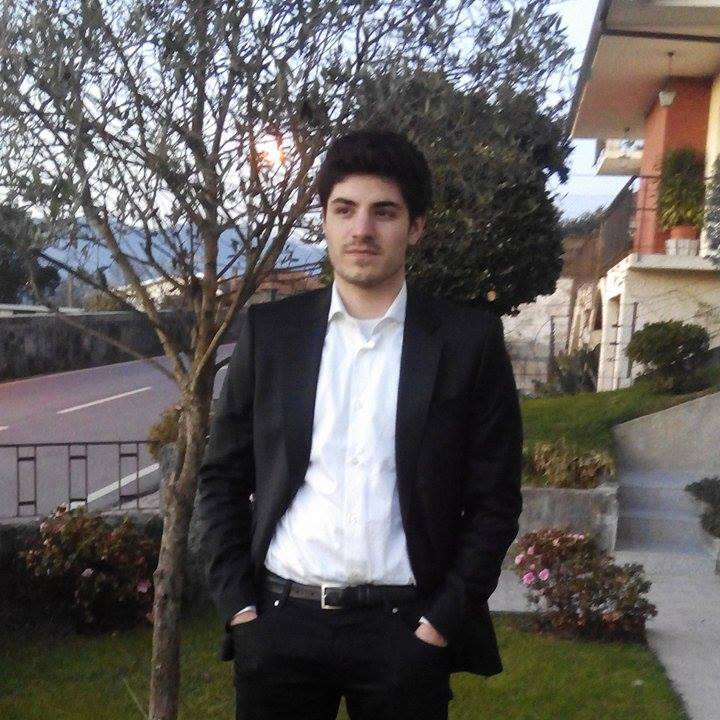
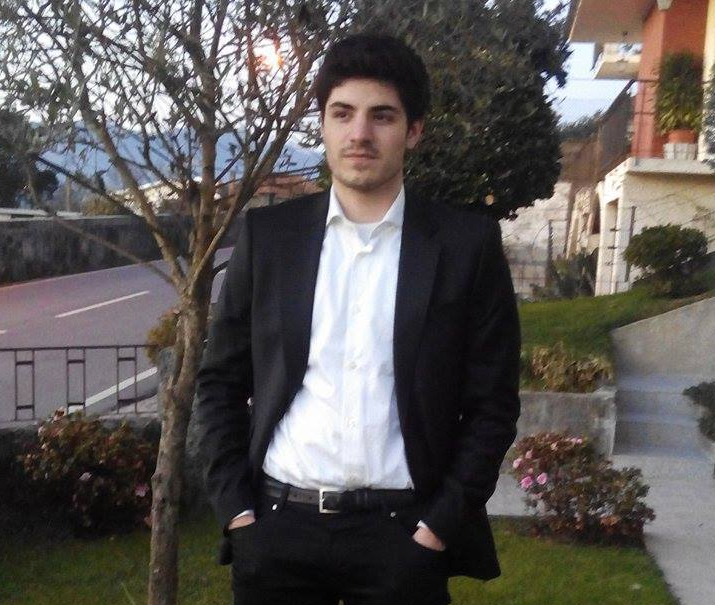
before table at index

diff --git a/aboutme.html b/aboutme.html
@@ -26,20 +26,19 @@
         </ul>
     </header>
     <div class="contentlayer">
-        <h2>Sobre Mim</h2>
+        <h1>Sobre Mim</h1>
         <div class="contentArea">
-            I'm 22 years old and I am currently in the last year of my master's degree in electrical and computer engineering.
-            I currently live in Vila Nova de Famalicão, Portugal. <br>
-            I have an extreme passion for technology and I value knowledge above all.<br>
-            In my free time I like to watch movies and listen to music. I also try to complement what I learned in college, building a special taste for web development. Additionally, I aim to play sports often, especially running and swimming.<br>
-            <span style="text-align: center">For more information, if you like, <a href="./contacts.html">get in touch &#9786;</a></span>.
+            Olá, o meu nome é Luís, tenh 22 anos e sou natural de Joane, uma freguesia de Vila Nova de Famalicão. <br />
+            Neste momento frequento o meu último ano escolar, no Mestrado Integrado em Engenharia Electrotécnica e de Computadores, na <a href="https://www.fe.up.pt" target="_blank">FEUP</a>.<br />
+            <br>
+            <p>Para mais informações, <a href="./contacts.html">contactem-me &#9786;</a></p>.
         </div>
         <div class="photoArea">
             <img src="images/photo.png" alt="Luis Melo">
         </div>
     </div>
     <footer>
-        <small>Copyright 2016 © Luís Melo, ee12103@fe.up.pt - SIEM</small>
+        <small>Copyright 2016 &#169; Luís Melo, ee12103@fe.up.pt - SIEM</small>
     </footer>
 </body>
 

diff --git a/download.html b/download.html
@@ -25,24 +25,16 @@
         </ul>
     </header>
     <div class="contentlayer">
-        <h2>Title Goes Here</h2>
+        <h1>Downloads</h1>
         <div class="contentArea">
-            Lorem ipsum dolor sit amet, consectetur adipiscing elit.
-            Sed fermentum, quam id varius facilisis, neque massa faucibus ligula, sed laoreet purus lectus et urna.
-            Aenean turpis erat, luctus in imperdiet nec, maximus sed nisl.
-            Aenean eu eleifend dui. Aenean sodales neque dolor, vel maximus urna consequat nec.
-            In imperdiet hendrerit arcu, et varius orci facilisis sit amet. Nulla facilisi.
-            Mauris at nulla quis est dictum vehicula. Interdum et malesuada fames ac ante ipsum primis in faucibus.
-            Ut quis elementum lorem, a elementum lectus.
-            Vestibulum non nisl tincidunt, imperdiet ligula euismod, auctor nunc.
-            In blandit iaculis massa eu varius.
+            
         </div>
         <div class="photoArea">
             <img src="images/photo.png" alt="Luis Melo">
         </div>
     </div>
     <footer>
-        <small>Copyright 2016 © Luís Melo, ee12103@fe.up.pt - SIEM</small>
+        <small>Copyright 2016 &#169; Luís Melo, ee12103@fe.up.pt - SIEM</small>
     </footer>
 </body>
 

diff --git a/interests.html b/interests.html
@@ -25,7 +25,7 @@
         </ul>
     </header>
     <div class="contentlayer">
-        <h2>Title Goes Here</h2>
+        <h1>Interesses</h1>
         <div class="contentArea">
             Lorem ipsum dolor sit amet, consectetur adipiscing elit.
             Sed fermentum, quam id varius facilisis, neque massa faucibus ligula, sed laoreet purus lectus et urna.
@@ -37,12 +37,9 @@
             Vestibulum non nisl tincidunt, imperdiet ligula euismod, auctor nunc.
             In blandit iaculis massa eu varius.
         </div>
-        <div class="photoArea">
-            <img src="images/photo.png" alt="Luis Melo">
-        </div>
     </div>
     <footer>
-        <small>Copyright 2016 © Luís Melo, ee12103@fe.up.pt - SIEM</small>
+        <small>Copyright 2016 &#169; Luís Melo, ee12103@fe.up.pt - SIEM</small>
     </footer>
 </body>
 

diff --git a/style.css b/style.css
@@ -25,6 +25,7 @@ html, body {
     display: block;
     width: 60%;
     margin-bottom: 10%;
+    padding: 0!important;
 }
 
 .intro p {
@@ -99,19 +100,20 @@ li a {
 /* CONTENT */
 
 .contentlayer {
-    margin: 0 5% 0 5%;
+    margin: 0 10% 0 10%;
     padding: 2%;
 }
 
-h2 {
+h1 {
     padding: 20px;
     font-family: 'Ubuntu', Helvetica, Arial, sans-serif;
-
 }
 
 .contentArea {
     width: 60%;
     display: inline-block;
+    line-height: 200%;
+    letter-spacing: 1.5px;
 }
 
 .photoArea {
@@ -121,11 +123,29 @@ h2 {
 }
 
 img {
-    width: 70%;
+    width: 80%;
     padding: 15%;
     padding-top: 0;
 }
 
+.contentArea p{
+    text-align: center;
+}
+
+.contentArea a{
+    color: #eee;
+    text-decoration: underline;
+}
+
+/* TABLE DOWNLOAD SECTION */
+
+table{
+    margin-left: 20%;
+}
+
+th{
+    width: 30%;
+}
 
 /* FOOTER */
 

diff --git a/contacts.html b/contacts.html
@@ -25,7 +25,7 @@
         </ul>
     </header>
     <div class="contentlayer">
-        <h2>Title Goes Here</h2>
+        <h1>Title Goes Here</h1>
         <div class="contentArea">
             Lorem ipsum dolor sit amet, consectetur adipiscing elit.
             Sed fermentum, quam id varius facilisis, neque massa faucibus ligula, sed laoreet purus lectus et urna.
@@ -42,7 +42,7 @@
         </div>
     </div>
     <footer>
-        <small>Copyright 2016 © Luís Melo, ee12103@fe.up.pt - SIEM</small>
+        <small>Copyright 2016 &#169; Luís Melo, ee12103@fe.up.pt - SIEM</small>
     </footer>
 </body>
 
